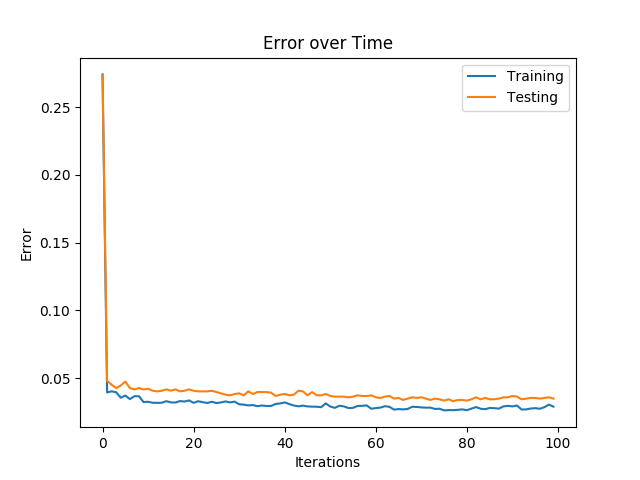
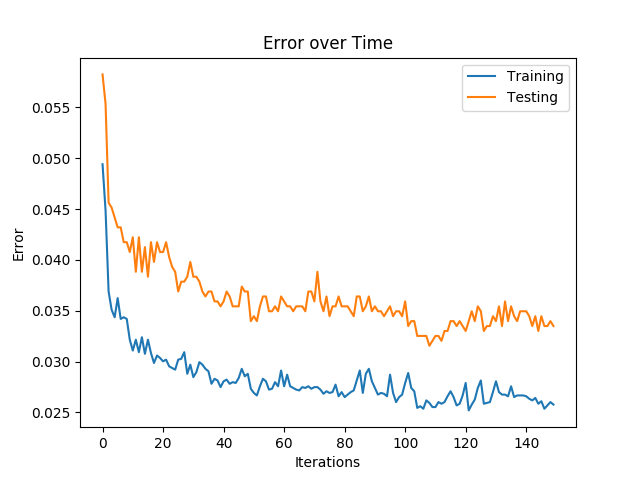
150 length iteration

diff --git a/hw2-code/src/helpers.py b/hw2-code/src/helpers.py
@@ -46,7 +46,7 @@ def load_mnist():
   return X_train, labels_train, one_train, X_test, labels_test, one_test
 
 """
-Helper function for plotting function
+Helper function for plotting function with training/testing distinction
 """
 def plot_function(plt_title, img_title, x_label, y_label, train_data, test_data):
   print("plot " + plt_title)
@@ -62,6 +62,26 @@ def plot_function(plt_title, img_title, x_label, y_label, train_data, test_data)
   plt.savefig(c.results_path + img_title + c.png_exten)
   plt.close()
 
+"""
+Helper function for plotting single function
+"""
+def plot_single(plt_title, img_title, x_label, y_label, data):
+  print("plot " + plt_title)
+
+  plt.plot(data)
+
+  plt.title(plt_title)
+  plt.xlabel(x_label)
+  plt.ylabel(y_label)
+
+  plt.savefig(c.results_path + img_title + c.png_exten)
+  plt.close()
+
+"""
+Helper function for getting min lasso lambda where w is all zero
+"""
+def min_lamb():
+  
 
 # """
 # Helper function for plotting error

diff --git a/hw2-code/src/binary-logistic.py b/hw2-code/src/binary-logistic.py
@@ -63,7 +63,7 @@ class GradientDescent:
     self.b = 0
     self.d = 0
 
-  def grad_desc(self, X_train, Y_train, X_test, Y_test, cutoff):
+  def grad_desc(self, X_train, Y_train, X_test, Y_test, cutoff=c.cutoff):
     print("gradient descent")
     
     # 12223, 784
@@ -135,7 +135,7 @@ class StochasticGradientDescent:
     self.d = 0
 
   # since it's random, maybe try capping an iter_count
-  def stoch_grad_desc(self, X_train, Y_train, X_test, Y_test, cutoff):
+  def stoch_grad_desc(self, X_train, Y_train, X_test, Y_test, cutoff=c.cutoff, iter_count=c.stoch_iter_count):
     print("stochastic gradient descent")
 
     n, self.d = X_train.shape
@@ -147,9 +147,7 @@ class StochasticGradientDescent:
     test_class_data = []
 
     # emulate do-while
-    iter_count = 0
-    for i in range(100):
-      # print(iter_count)
+    for i in range(iter_count):
       indices = random.sample(range(n), self.batch)
       
       X_batch = X_train[indices]

diff --git a/hw2-code/src/lasso.py b/hw2-code/src/lasso.py
@@ -14,11 +14,17 @@ def main():
 
   lasso = Lasso(c.reg_lambda)
 
+
+
 class Lasso:
   def __init__(self, reg_lambda):
     self.lamb = reg_lambda
 
-    while 
+
+  def lasso(self, cutoff):
+    print("lasso")
+
+    # while max(np.max(np.abs(grad_w)), grad_b) < cutoff:
 
   def generate_synthetic_data(self, n, d, k, variance):
     print("generating synthetic data")

diff --git a/hw2-code/src/constants.py b/hw2-code/src/constants.py
@@ -22,3 +22,5 @@ digit_to_one = { 2 : -1, 7 : +1}
 
 mnist_step_size = 1E-1
 cutoff = 1E-2
+
+stoch_iter_count = 150
